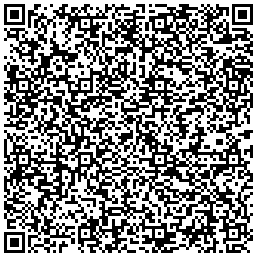
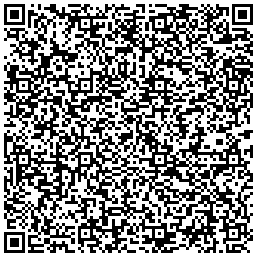
fix

diff --git a/README.md b/README.md
@@ -19,7 +19,7 @@
 | ------------- | ------------- |
 | [动漫基地](https://share.dagouzhi.com/#/pages/index/index?data=%7B%22type%22%3A%22app%22%2C%22name%22%3A%22%E5%8A%A8%E6%BC%AB%E5%9F%BA%E5%9C%B0%22%2C%22appid%22%3A%22animation_996%22%2C%22version%22%3A%220.0.10%22%2C%22appUrlConfig%22%3A%22https%3A%2F%2Fraw.gitmirror.com%2Fhtyf-mp-community%2Fdemo%2Fmain%2Fanimation_996%2Fapp.json%22%2C%22zipUrl%22%3A%22https%3A%2F%2Fraw.gitmirror.com%2Fhtyf-mp-community%2Fdemo%2Fmain%2Fanimation_996%2Fdist.dgz%22%7D)  | [![小程序码](./animation_996/qrcode.png)](https://share.dagouzhi.com/#/pages/index/index?data=%7B%22type%22%3A%22app%22%2C%22name%22%3A%22%E5%8A%A8%E6%BC%AB%E5%9F%BA%E5%9C%B0%22%2C%22appid%22%3A%22animation_996%22%2C%22version%22%3A%220.0.10%22%2C%22appUrlConfig%22%3A%22https%3A%2F%2Fraw.gitmirror.com%2Fhtyf-mp-community%2Fdemo%2Fmain%2Fanimation_996%2Fapp.json%22%2C%22zipUrl%22%3A%22https%3A%2F%2Fraw.gitmirror.com%2Fhtyf-mp-community%2Fdemo%2Fmain%2Fanimation_996%2Fdist.dgz%22%7D) |
 | [漫画基地](https://share.dagouzhi.com/#/pages/index/index?data=%7B%22type%22%3A%22app%22%2C%22name%22%3A%22%E6%BC%AB%E7%94%BB%E5%9F%BA%E5%9C%B0%22%2C%22appid%22%3A%22caricature_996%22%2C%22version%22%3A%220.6.25%22%2C%22appUrlConfig%22%3A%22https%3A%2F%2Fraw.gitmirror.com%2Fhtyf-mp-community%2Fdemo%2Fmain%2Fcaricature_996%2Fapp.json%22%2C%22zipUrl%22%3A%22https%3A%2F%2Fraw.gitmirror.com%2Fhtyf-mp-community%2Fdemo%2Fmain%2Fcaricature_996%2Fdist.dgz%22%7D)  | [![小程序码](./caricature_996/qrcode.png)](https://share.dagouzhi.com/#/pages/index/index?data=%7B%22type%22%3A%22app%22%2C%22name%22%3A%22%E6%BC%AB%E7%94%BB%E5%9F%BA%E5%9C%B0%22%2C%22appid%22%3A%22caricature_996%22%2C%22version%22%3A%220.6.25%22%2C%22appUrlConfig%22%3A%22https%3A%2F%2Fraw.gitmirror.com%2Fhtyf-mp-community%2Fdemo%2Fmain%2Fcaricature_996%2Fapp.json%22%2C%22zipUrl%22%3A%22https%3A%2F%2Fraw.gitmirror.com%2Fhtyf-mp-community%2Fdemo%2Fmain%2Fcaricature_996%2Fdist.dgz%22%7D) |
-| [快乐剧](https://share.dagouzhi.com/#/pages/index/index?data=%7B%22type%22%3A%22app%22%2C%22name%22%3A%22%E5%BF%AB%E4%B9%90%E5%89%A7%22%2C%22appid%22%3A%22kualeju_996%22%2C%22version%22%3A%220.0.4%22%2C%22appUrlConfig%22%3A%22https%3A%2F%2Fraw.gitmirror.com%2Fhtyf-mp-community%2Fdemo%2Fmain%2Fkualeju_996%2Fapp.json%22%2C%22zipUrl%22%3A%22https%3A%2F%2Fraw.gitmirror.com%2Fhtyf-mp-community%2Fdemo%2Fmain%2Fkualeju_996%2Fdist.dgz%22%7D)  | [![小程序码](./kualeju_996/qrcode.png)](https://share.dagouzhi.com/#/pages/index/index?data=%7B%22type%22%3A%22app%22%2C%22name%22%3A%22%E5%BF%AB%E4%B9%90%E5%89%A7%22%2C%22appid%22%3A%22kualeju_996%22%2C%22version%22%3A%220.0.4%22%2C%22appUrlConfig%22%3A%22https%3A%2F%2Fraw.gitmirror.com%2Fhtyf-mp-community%2Fdemo%2Fmain%2Fkualeju_996%2Fapp.json%22%2C%22zipUrl%22%3A%22https%3A%2F%2Fraw.gitmirror.com%2Fhtyf-mp-community%2Fdemo%2Fmain%2Fkualeju_996%2Fdist.dgz%22%7D) |
+| [快乐剧](https://share.dagouzhi.com/#/pages/index/index?data=%7B%22type%22%3A%22app%22%2C%22name%22%3A%22%E5%BF%AB%E4%B9%90%E5%89%A7%22%2C%22appid%22%3A%22kualeju_996%22%2C%22version%22%3A%220.0.5%22%2C%22appUrlConfig%22%3A%22https%3A%2F%2Fraw.gitmirror.com%2Fhtyf-mp-community%2Fdemo%2Fmain%2Fkualeju_996%2Fapp.json%22%2C%22zipUrl%22%3A%22https%3A%2F%2Fraw.gitmirror.com%2Fhtyf-mp-community%2Fdemo%2Fmain%2Fkualeju_996%2Fdist.dgz%22%7D)  | [![小程序码](./kualeju_996/qrcode.png)](https://share.dagouzhi.com/#/pages/index/index?data=%7B%22type%22%3A%22app%22%2C%22name%22%3A%22%E5%BF%AB%E4%B9%90%E5%89%A7%22%2C%22appid%22%3A%22kualeju_996%22%2C%22version%22%3A%220.0.5%22%2C%22appUrlConfig%22%3A%22https%3A%2F%2Fraw.gitmirror.com%2Fhtyf-mp-community%2Fdemo%2Fmain%2Fkualeju_996%2Fapp.json%22%2C%22zipUrl%22%3A%22https%3A%2F%2Fraw.gitmirror.com%2Fhtyf-mp-community%2Fdemo%2Fmain%2Fkualeju_996%2Fdist.dgz%22%7D) |
 | [直播live](https://share.dagouzhi.com/#/pages/index/index?data=%7B%22type%22%3A%22app%22%2C%22name%22%3A%22%E7%9B%B4%E6%92%ADlive%22%2C%22appid%22%3A%22live_996%22%2C%22version%22%3A%220.0.23%22%2C%22appUrlConfig%22%3A%22https%3A%2F%2Fraw.gitmirror.com%2Fhtyf-mp-community%2Fdemo%2Fmain%2Flive_996%2Fapp.json%22%2C%22zipUrl%22%3A%22https%3A%2F%2Fraw.gitmirror.com%2Fhtyf-mp-community%2Fdemo%2Fmain%2Flive_996%2Fdist.dgz%22%7D)  | [![小程序码](./live_996/qrcode.png)](https://share.dagouzhi.com/#/pages/index/index?data=%7B%22type%22%3A%22app%22%2C%22name%22%3A%22%E7%9B%B4%E6%92%ADlive%22%2C%22appid%22%3A%22live_996%22%2C%22version%22%3A%220.0.23%22%2C%22appUrlConfig%22%3A%22https%3A%2F%2Fraw.gitmirror.com%2Fhtyf-mp-community%2Fdemo%2Fmain%2Flive_996%2Fapp.json%22%2C%22zipUrl%22%3A%22https%3A%2F%2Fraw.gitmirror.com%2Fhtyf-mp-community%2Fdemo%2Fmain%2Flive_996%2Fdist.dgz%22%7D) |
 | [听书网](https://share.dagouzhi.com/#/pages/index/index?data=%7B%22type%22%3A%22app%22%2C%22name%22%3A%22%E5%90%AC%E4%B9%A6%E7%BD%91%22%2C%22appid%22%3A%22ting_996%22%2C%22version%22%3A%220.0.31%22%2C%22appUrlConfig%22%3A%22https%3A%2F%2Fraw.gitmirror.com%2Fhtyf-mp-community%2Fdemo%2Fmain%2Fting_996%2Fapp.json%22%2C%22zipUrl%22%3A%22https%3A%2F%2Fraw.gitmirror.com%2Fhtyf-mp-community%2Fdemo%2Fmain%2Fting_996%2Fdist.dgz%22%7D)  | [![小程序码](./ting_996/qrcode.png)](https://share.dagouzhi.com/#/pages/index/index?data=%7B%22type%22%3A%22app%22%2C%22name%22%3A%22%E5%90%AC%E4%B9%A6%E7%BD%91%22%2C%22appid%22%3A%22ting_996%22%2C%22version%22%3A%220.0.31%22%2C%22appUrlConfig%22%3A%22https%3A%2F%2Fraw.gitmirror.com%2Fhtyf-mp-community%2Fdemo%2Fmain%2Fting_996%2Fapp.json%22%2C%22zipUrl%22%3A%22https%3A%2F%2Fraw.gitmirror.com%2Fhtyf-mp-community%2Fdemo%2Fmain%2Fting_996%2Fdist.dgz%22%7D) |
 
